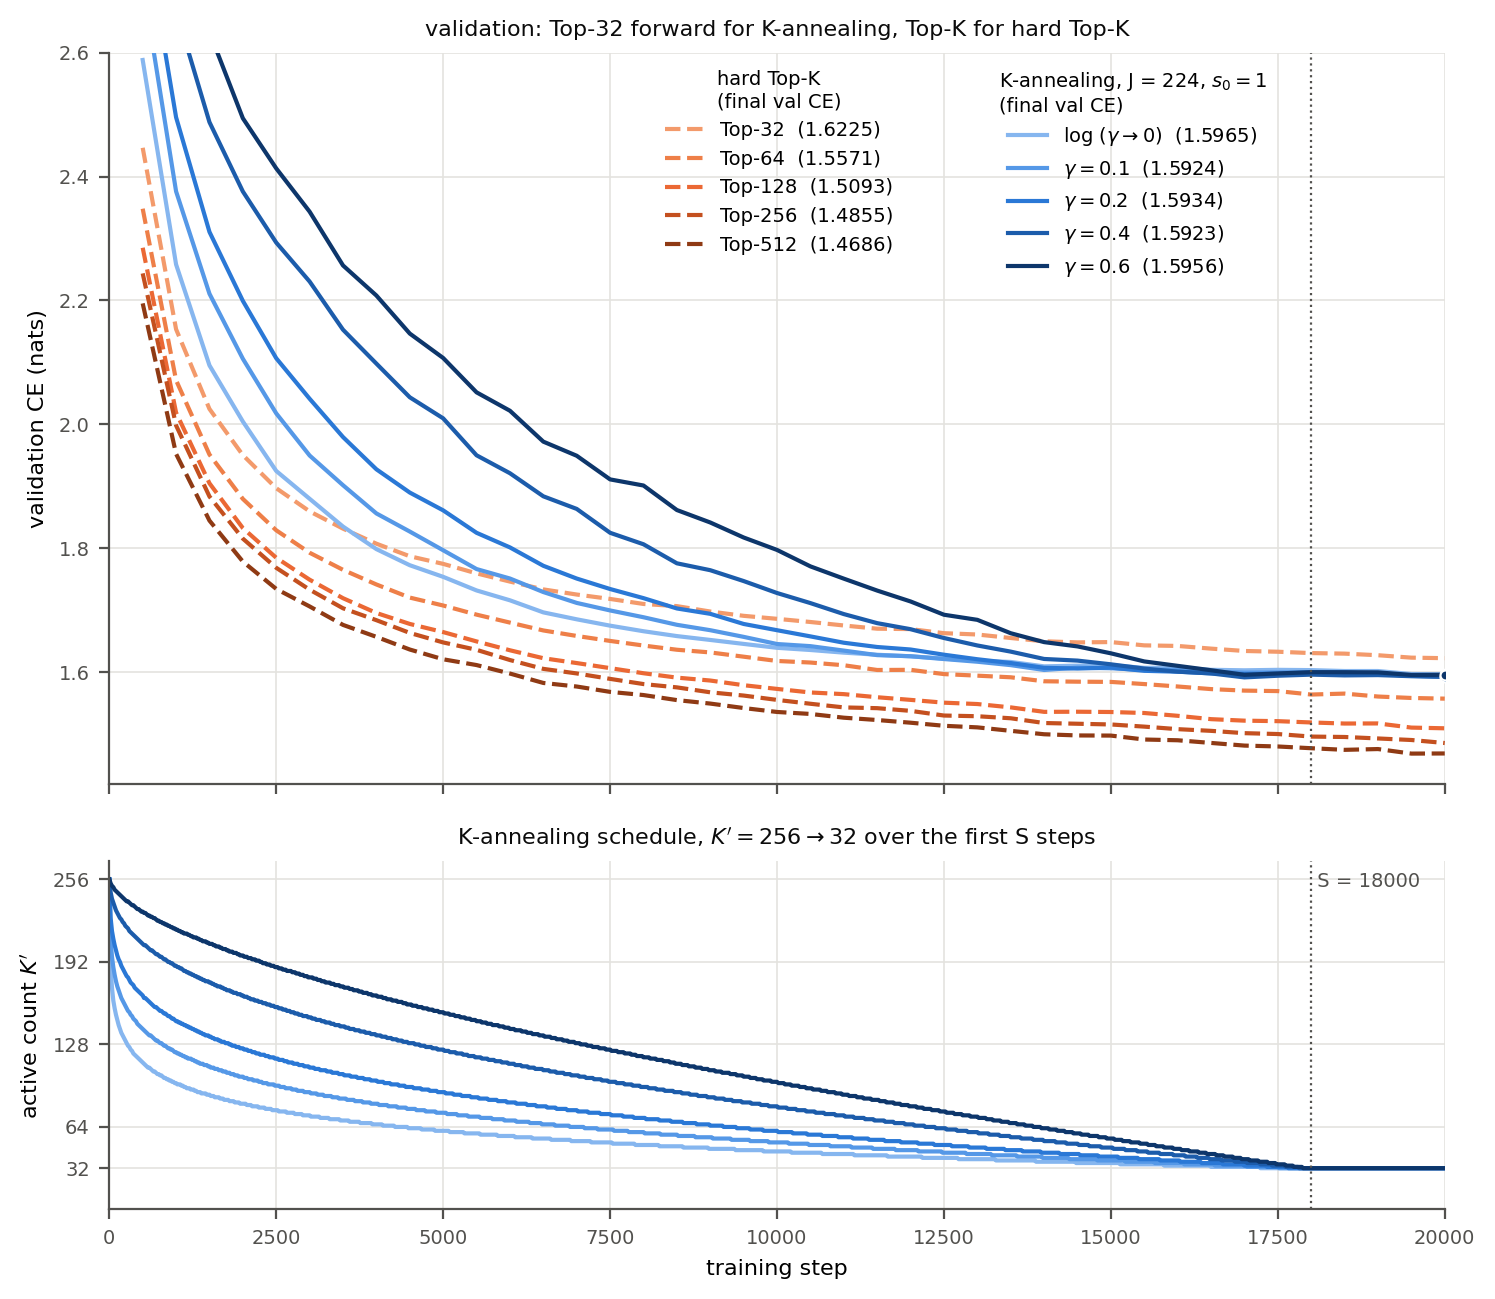
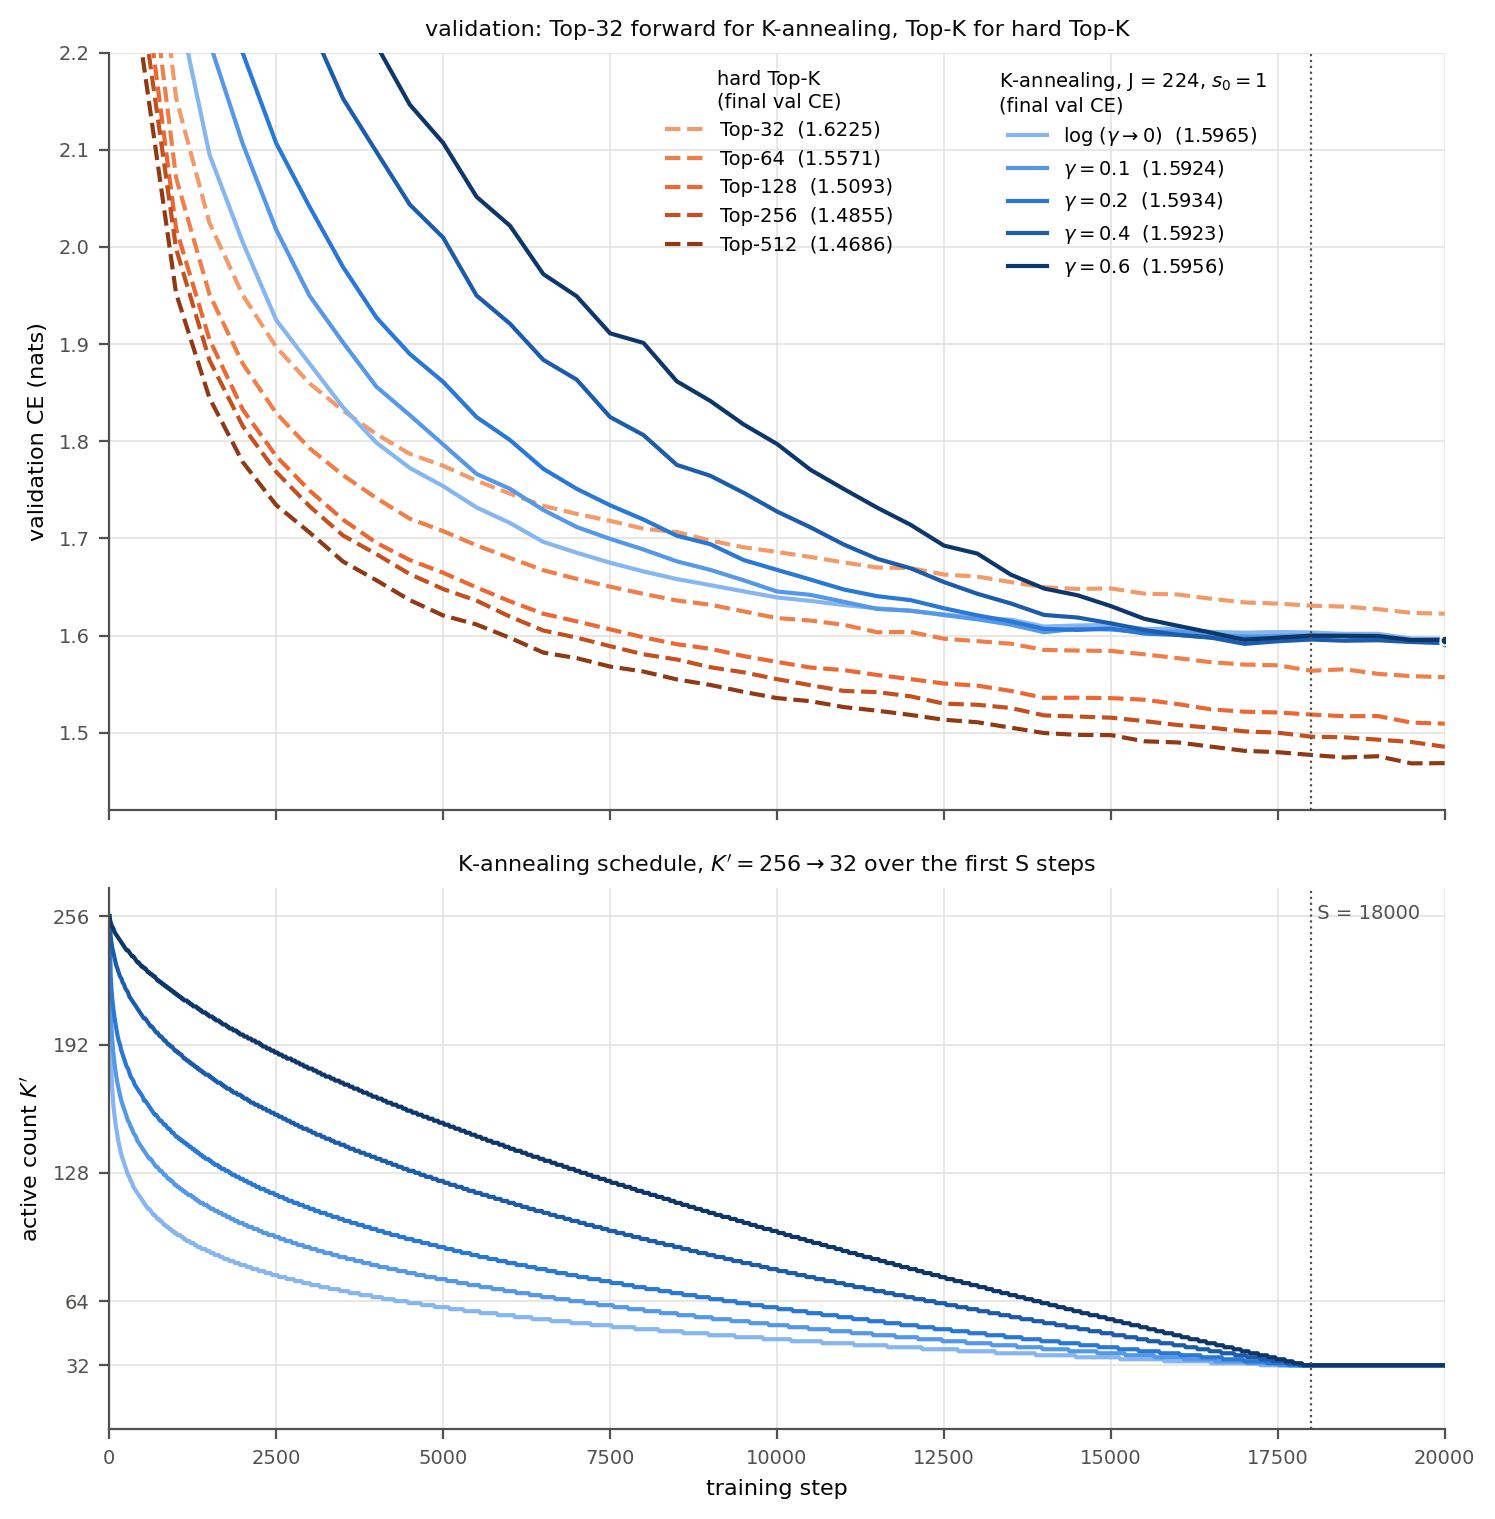
docs/kanneal: const-LR figure, upper panel to CE 2.2, lower panel 1.5x taller

diff --git a/scripts/plot_kanneal_const.py b/scripts/plot_kanneal_const.py
@@ -74,8 +74,8 @@ def style(ax) -> None:
 
 
 def plot(data: dict) -> None:
-    fig, (top, bot) = plt.subplots(2, 1, figsize=(7.6, 6.6), sharex=True,
-                                   gridspec_kw={"height_ratios": [2.1, 1]})
+    fig, (top, bot) = plt.subplots(2, 1, figsize=(7.6, 7.7), sharex=True,
+                                   gridspec_kw={"height_ratios": [2.1, 1.5]})
     hard_lines, anneal_lines = [], []
     for key, label, *_ in HARD:
         xs, ys = zip(*data[key]["val"])
@@ -93,7 +93,7 @@ def plot(data: dict) -> None:
     for ax in (top, bot):
         ax.axvline(S, color=MUTED, lw=0.8, ls=":")
         style(ax)
-    top.set_ylim(1.42, 2.6)
+    top.set_ylim(1.42, 2.2)
     top.set_ylabel("validation CE (nats)")
     top.set_title("validation: Top-32 forward for K-annealing, Top-K for hard Top-K",
                   fontsize=8, color=INK)
